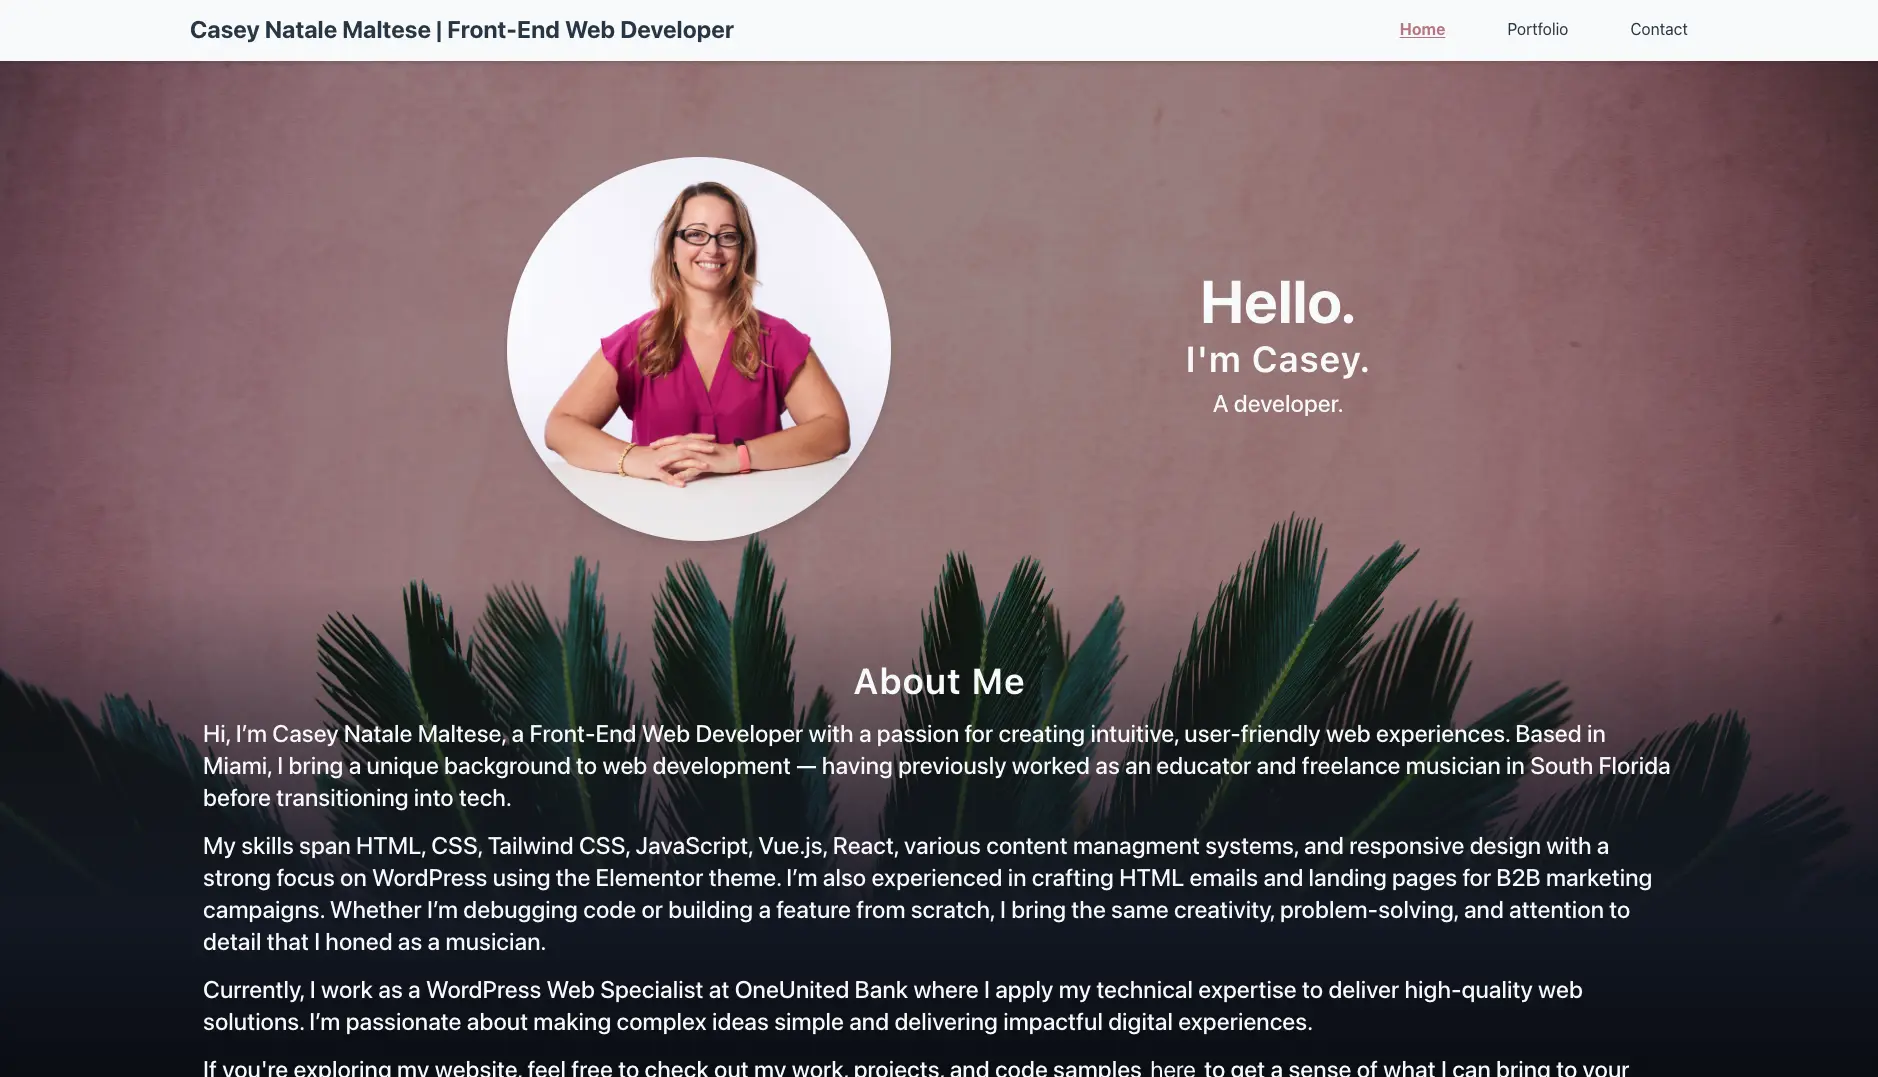
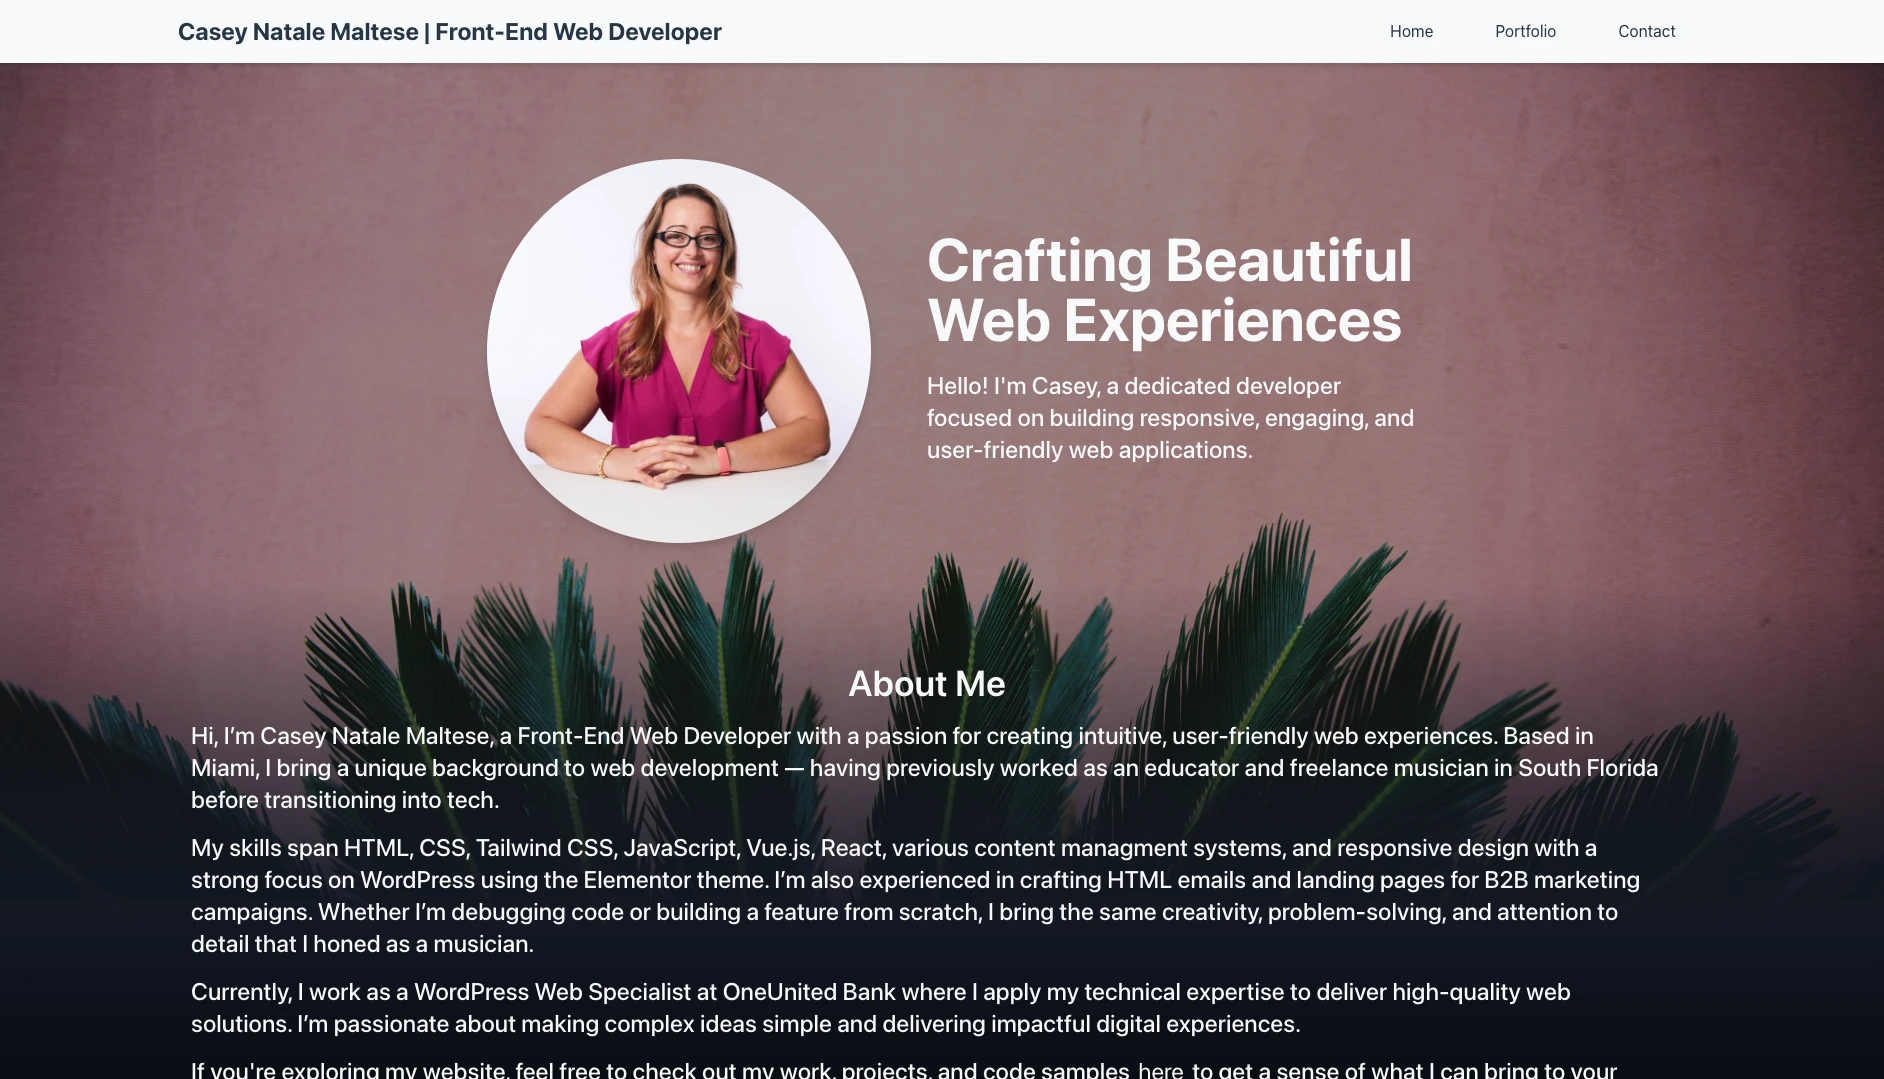
updating home page image, adjusting layout of home page, removing unnecessary code, updating copy for portfolio page

diff --git a/vue-bio/src/pages/Home.vue b/vue-bio/src/pages/Home.vue
@@ -1,11 +1,9 @@
 <template>
-  <div
-    id="app"
-  >
+  <div id="app">
     <main class="flex justify-center items-center px-10 pt-24 pb-10">
-      <div class="flex justify-between w-full max-w-4xl px-4">
+      <div class="flex justify-between w-full max-w-5xl px-4">
         <!-- Left Column: Image -->
-        <div class="flex justify-center items-center">
+        <div class="flex justify-center items-center flex-1">
           <img
             class="rounded-full w-96 h-auto drop-shadow-lg"
             src="../assets/images/casey-headshot-pink.jpeg"
@@ -14,10 +12,16 @@
         </div>
 
         <!-- Right Column: Text -->
-        <div class="flex flex-col justify-center items-center text-center">
-          <h1 class="text-6xl text-gray-50 pb-2 font-bold">Hello.</h1>
-          <h2 class="text-4xl text-gray-50 pb-2 font-semibold">I'm Casey.</h2>
-          <p class="text-2xl text-gray-50 pb-2 font-medium">A developer.</p>
+        <div
+          class="flex flex-col justify-center items-center flex-1 gap-3"
+        >
+          <h1 class="text-6xl text-gray-50 pb-2 font-bold">
+            Crafting Beautiful Web Experiences
+          </h1>
+          <p class="text-2xl text-gray-50 pb-2 font-medium">
+            Hello! I'm Casey, a dedicated developer focused on building
+            responsive, engaging, and user-friendly web applications.
+          </p>
         </div>
       </div>
     </main>
@@ -27,20 +31,20 @@
       <h2 class="text-4xl text-gray-50 pb-4 font-semibold">About Me</h2>
       <p class="text-2xl text-gray-50 pb-4 font-medium">
         Hi, I’m Casey Natale Maltese, a Front-End Web Developer with a passion
-        for creating intuitive, user-friendly web experiences. Based in
-        Miami, I bring a unique background to web development — having previously
-        worked as an educator and freelance musician in South Florida before
+        for creating intuitive, user-friendly web experiences. Based in Miami, I
+        bring a unique background to web development — having previously worked
+        as an educator and freelance musician in South Florida before
         transitioning into tech.
       </p>
 
       <p class="text-2xl text-gray-50 pb-4 font-medium">
-        My skills span HTML, CSS, Tailwind CSS, JavaScript, Vue.js, React, various
-        content managment systems, and responsive design with a strong focus on
-        WordPress using the Elementor theme. I’m also experienced in crafting
-        HTML emails and landing pages for B2B marketing campaigns. Whether I’m
-        debugging code or building a feature from scratch, I bring the same
-        creativity, problem-solving, and attention to detail that I honed as a
-        musician.
+        My skills span HTML, CSS, Tailwind CSS, JavaScript, Vue.js, React,
+        various content managment systems, and responsive design with a strong
+        focus on WordPress using the Elementor theme. I’m also experienced in
+        crafting HTML emails and landing pages for B2B marketing campaigns.
+        Whether I’m debugging code or building a feature from scratch, I bring
+        the same creativity, problem-solving, and attention to detail that I
+        honed as a musician.
       </p>
 
       <p class="text-2xl text-gray-50 pb-4 font-medium">
@@ -52,9 +56,14 @@
 
       <p class="text-2xl text-gray-50 pb-4 font-medium">
         If you're exploring my website, feel free to check out my work,
-        projects, and code samples <a href="/portfolio" class="text-gray-50 underline hover:text-custom-purple hover:underline hover:underline-offset-2 hover:bg-transparent focus:bg-transparent focus:text-custom-purple focus:underline focus:underline-offset-2 focus:font-bold">here</a> to get a sense of what I can bring to your
-        next web development project. I’m always eager to collaborate and create
-        something unique!
+        projects, and code samples
+        <a
+          href="/portfolio"
+          class="text-gray-50 underline hover:text-custom-purple hover:underline hover:underline-offset-2 hover:bg-transparent focus:bg-transparent focus:text-custom-purple focus:underline focus:underline-offset-2 focus:font-bold"
+          >here</a
+        >
+        to get a sense of what I can bring to your next web development project.
+        I’m always eager to collaborate and create something unique!
       </p>
 
       <!-- <p class="text-2xl text-gray-50 pb-10 font-medium">
@@ -64,7 +73,13 @@
       </p> -->
 
       <p class="text-2xl text-gray-50 pb-4 font-medium">
-        Let’s <a href="/contact" class="text-gray-50 underline hover:text-custom-purple hover:underline hover:underline-offset-2 hover:bg-transparent focus:bg-transparent focus:text-custom-purple focus:underline focus:underline-offset-2 focus:font-bold">connect</a> and build something great!
+        Let’s
+        <a
+          href="/contact"
+          class="text-gray-50 underline hover:text-custom-purple hover:underline hover:underline-offset-2 hover:bg-transparent focus:bg-transparent focus:text-custom-purple focus:underline focus:underline-offset-2 focus:font-bold"
+          >connect</a
+        >
+        and build something great!
       </p>
     </div>
   </div>

diff --git a/vue-bio/src/pages/Portfolio.vue b/vue-bio/src/pages/Portfolio.vue
@@ -1,32 +1,15 @@
-<!-- <template>
-    <div>
-      <h1 class="text-white">I AM THE PORTFOLIO PAGE!!!!</h1>
-    </div>
-  </template>
-  
-  <script>
-  export default {
-    name: 'Portfolio'
-  };
-  </script>
-  
-  <style scoped>
-  /* Your CSS for the contact page */
-  </style> -->
-
 <template>
   <div class="py-16 xl:mx-48 lg:mx-32 md:mx-20 mx-5">
     <h1 class="text-5xl text-gray-50 pb-4 font-semibold text-center py-6">
       Welcome to My Portfolio!
     </h1>
     <p class="text-2xl text-gray-50 font-medium text-center py-6">
-      I'm a passionate front-end developer with a focus on building responsive,
-      user-friendly websites and applications. I specialize in modern front-end
+      I'm a committed front-end developer with a focus on building responsive,
+      user-friendly websites and applications. Specializing in modern front-end
       technologies such as HTML, CSS, Tailwind CSS, JavaScript, and frameworks
-      like Vue and React. I’m dedicated to crafting seamless, mobile-first
-      designs that adapt beautifully to any screen size. Take a look at my work
-      and see how I can bring your ideas to life with clean, responsive web
-      design.
+      like Vue and React, I’m dedicated to crafting seamless, mobile-first
+      designs. Take a look at my work and see how I can bring your ideas to life
+      with clean, responsive web design.
     </p>
 
     <div
@@ -147,6 +130,65 @@
         >
       </div>
     </div>
+
+    <!-- <div
+      class="flex flex-col items-center md:flex-row md:items-stretch justify-center gap-14 pt-6"
+    >
+     
+      <div
+        class="text-center w-full max-w-2xl h-auto sm:w-1/2 lg:w-1/2 border rounded border-custom-bg-green p-8 bg-custom-bg-green drop-shadow-xl"
+      >
+        <img
+          src="../assets/images/budget-tracker.webp"
+          alt="Image of home page for travel blog featuring a person taking a picture of mountains next to a pool."
+          class="w-full max-w-[400px] h-auto mb-4 mx-auto rounded drop-shadow-xl"
+        />
+        <p class="text-white text-base mb-4 font-medium pt-8">
+          The <span class="font-bold">Budget Tracker</span> is a web application
+          that helps users efficiently manage and monitor their finances. With
+          this app, users can easily enter their transactions and track their
+          expenses over time with a dynamic line graph. The app works both
+          online and offline, ensuring data is saved locally and synced when
+          reconnected to the internet. Built using HTML5, CSS3, JavaScript, and
+          backed by Node.js with Mongoose, the app offers a seamless user
+          experience, even without an internet connection.
+        </p>
+        <a
+          href="https://github.com/caseofbase18/budget_tracker"
+          target="_blank"
+          class="text-custom-dark-purple text-xl font-extrabold hover:underline hover:underline-offset-2 hover:bg-transparent hover:font-black"
+          >Budget Tracker</a
+        >
+      </div>
+
+      
+      <div
+        class="text-center w-full max-w-2xl h-auto sm:w-1/2 lg:w-1/2 border rounded border-custom-bg-green p-8 bg-custom-bg-green drop-shadow-xl"
+      >
+        <img
+          src="../assets/images/fitness-tracker-dashboard.webp"
+          alt="Image of draggable list with images of various travel destinations and their descriptions."
+          class="w-full max-w-[600px] h-auto mb-4 mx-auto rounded drop-shadow-xl"
+        />
+        <p class="text-white text-base mb-4 font-medium pt-8">
+          The <span class="font-bold">Workout Tracker</span> is a web
+          application designed to help users log and track their daily workouts.
+          Users can easily log exercises categorized as Cardio or Resistance.
+          For Cardio exercises, users track the distance and duration, while for
+          Resistance exercises, they log the weight lifted, sets, reps, and
+          duration. Built with Node.js, Express, and MongoDB, this app provides
+          a simple and intuitive interface for managing fitness routines.
+          Whether you're tracking a run or a weightlifting session, the app
+          helps users stay organized and monitor their progress over time.
+        </p>
+        <a
+          href="https://github.com/caseofbase18/fitness_tracker"
+          target="_blank"
+          class="text-custom-dark-purple text-xl font-extrabold hover:underline hover:underline-offset-2 hover:bg-transparent hover:font-black"
+          >Workout Tracker</a
+        >
+      </div>
+    </div> -->
   </div>
 </template>
 
